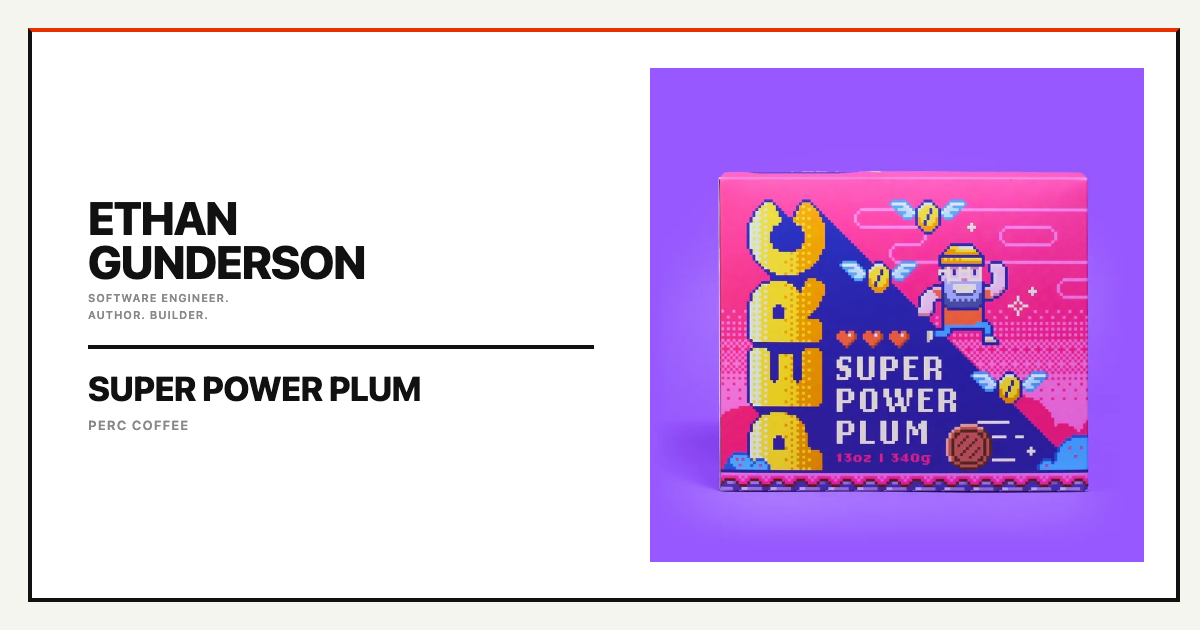
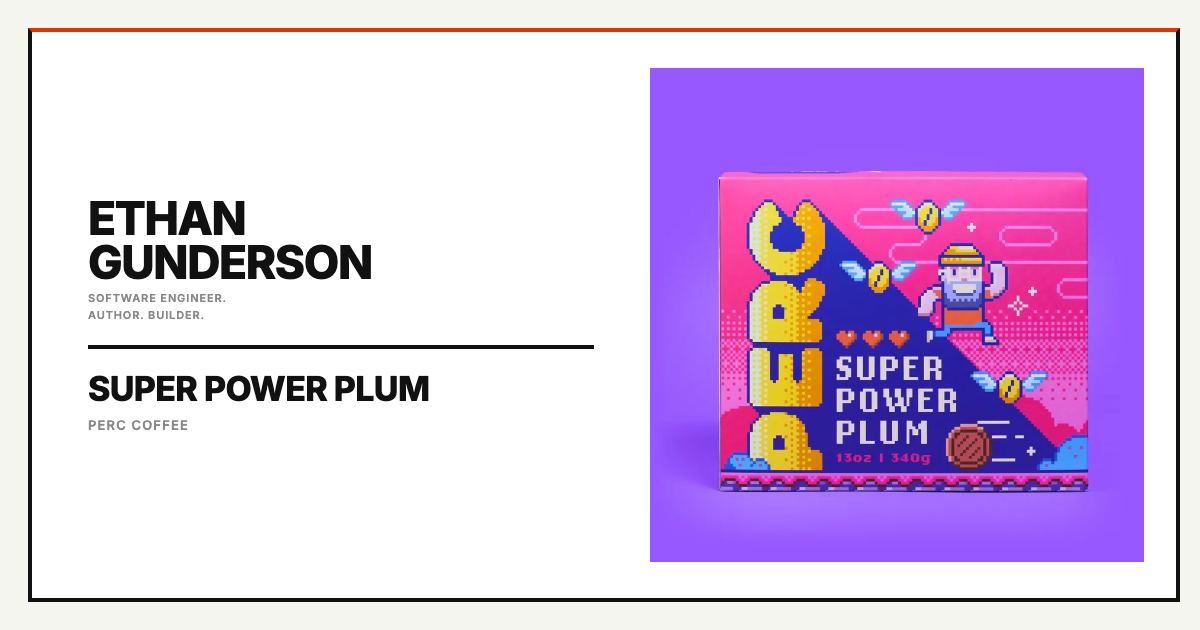
Add PERC Colombia Franky Hoyos review
Rated 6/7, with V60 and Flair 58 brew recipes in the body.

The 13 pre-existing OG images are byte-different because
mix gen_coffee_og_images globs all of _coffee/ and re-encodes
every PNG; only the Franky Hoyos image is new content.

Changed region(s): [[0.0925, 0.3016, 0.3083, 0.5127], [0.0617, 0.573, 0.37, 0.6635], [0.0617, 0.6635, 0.1542, 0.6937]]

diff --git a/_coffee/perc-colombia-franky-hoyos-adv-natural.md b/_coffee/perc-colombia-franky-hoyos-adv-natural.md
@@ -1,0 +1,41 @@
+---
+layout: Website.CoffeeLayout
+title: "Colombia Franky Hoyos Adv Natural"
+categories: coffee
+roaster: "PERC Coffee"
+rating: 6
+date: 2026-07-27
+link: https://perccoffee.com/products/colombia-franky-hoyos-adv-natural
+price: "34.00"
+permalink: /coffee/perc-colombia-franky-hoyos-adv-natural
+image: /images/coffee/PERC_ColombiaFrankyHoyos.webp
+process: Advanced Natural Co-ferment
+region: Colombia
+roast_level: Medium
+description: "In your face acidic fruit loops, none of the creamsicle PERC promises on the bag. Colombia gesha, advanced natural co-ferment. Rating: 6/7"
+---
+
+This was a great bag of coffee. Perc's website has `big creamsicle, tootsie roll, and Wendy's Frosty vibes` as the flavor descriptors, and honestly I got none of that. Instead, I got big acidic fruit loops that was present in both aroma and in the cup. It's not a subtle flavor. A big reason that I like brewing coffee is the morning ritual, and having a great smelling coffee while standing there and pouring the water makes it all that much better.
+
+Though, while I loved this coffee, my wife hated it. So, like everything good in life, ymmv.
+
+## Brewing Recipes
+
+### Filter — V60
+
+30g in / 500g out (1:16.7) · 210°F · DF54 at 70 · ~2:30 total
+
+| Stage | Water (total) | Time |
+| --- | --- | --- |
+| Bloom | 60g | 0:30 |
+| Second bloom | 100g | 0:30 |
+| Single pour | 500g | ~1:30 |
+
+### Espresso — Flair 58 Plus 2
+
+18g in / 40g out (1:2.2) · 210°F · DF54 at 5 · 0:35 total
+
+| Stage | Time |
+| --- | --- |
+| Preinfusion | 0:10 |
+| Extraction | 0:25 |
